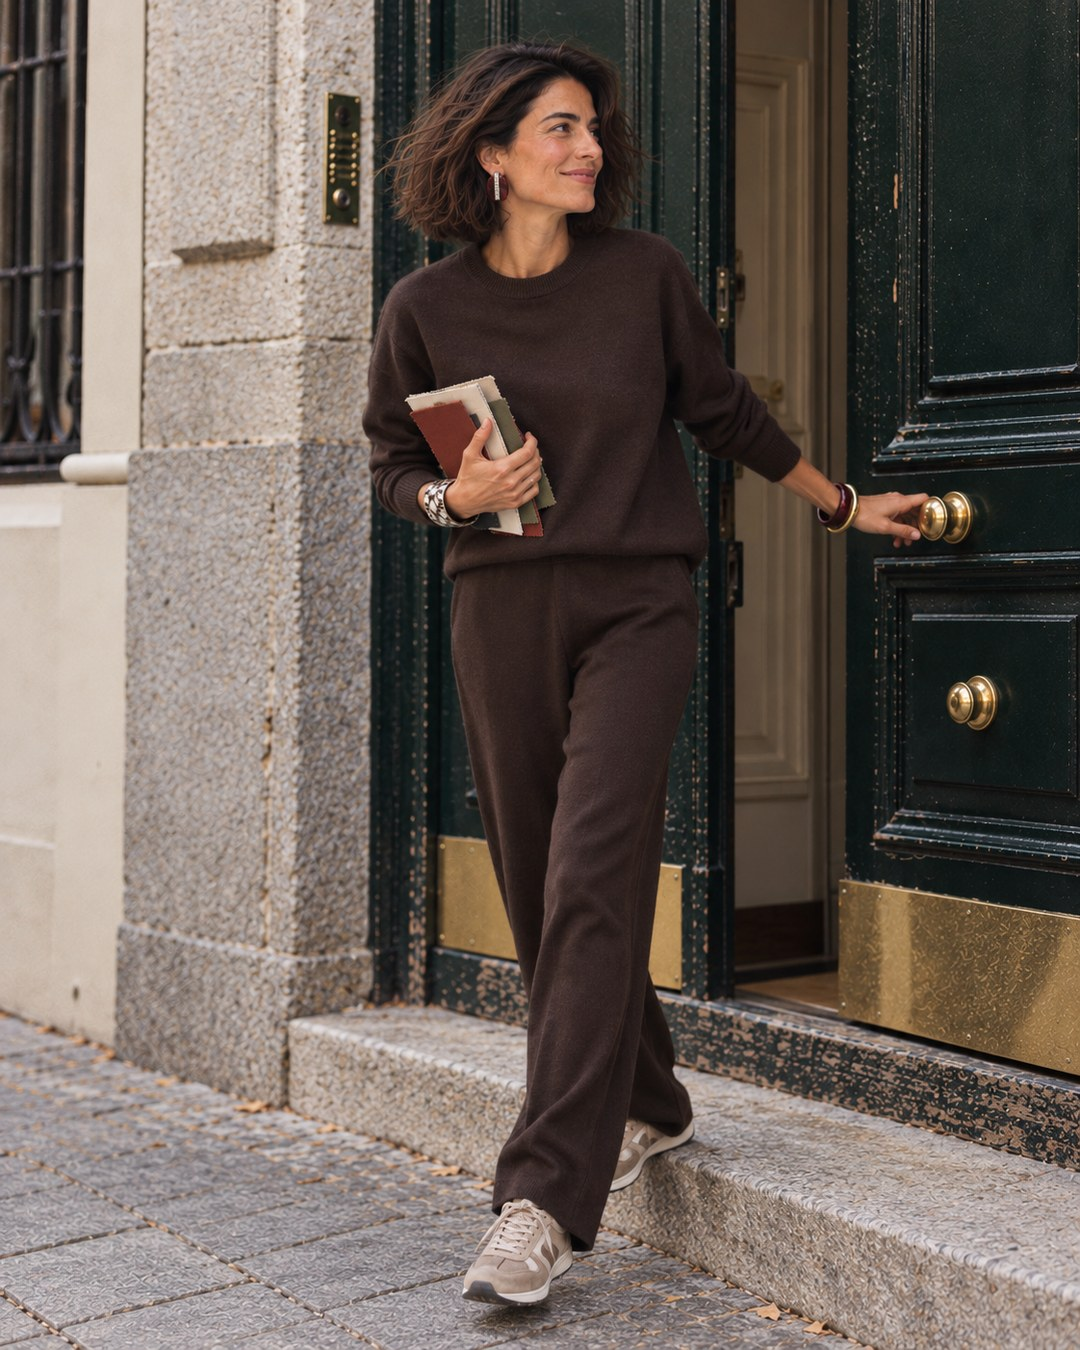
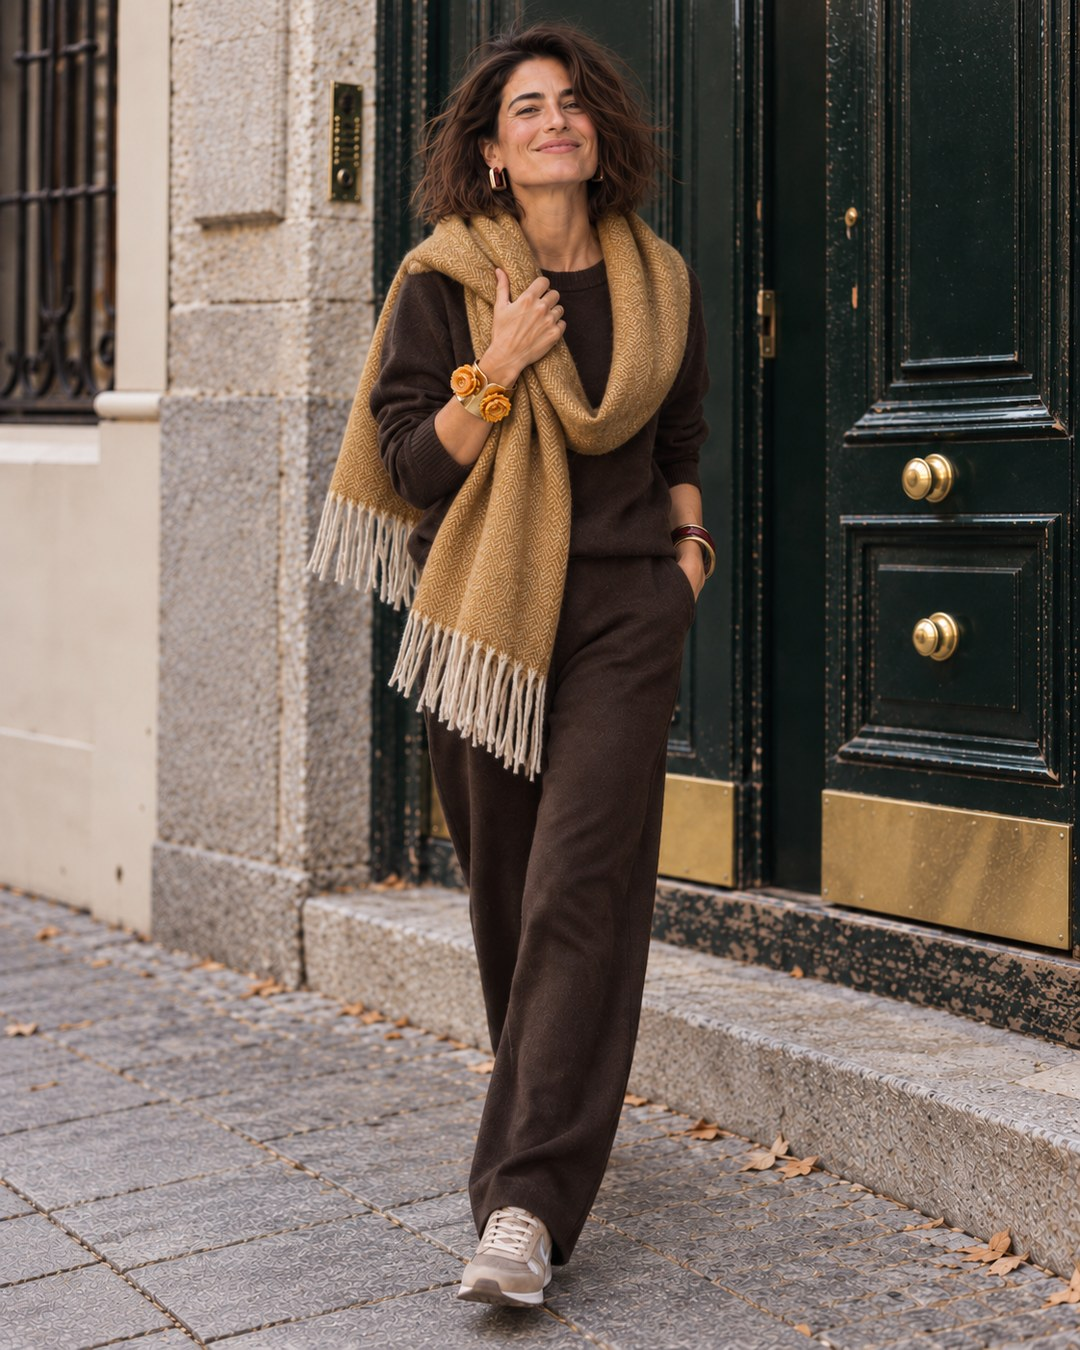
Add files via upload

diff --git a/index.html b/index.html
@@ -60,13 +60,14 @@ const LOOKS = [
    items:[
     {b:"Mango", n:"Fine-knit crew-neck jumper", p:"€19.99", u:"https://shop.mango.com/es/es/p/mujer/jerseis-y-cardigans/jerseis/jersey-punto-cuello-redondo/37017777/30/00"},
     {b:"Mango", n:"Fine-knit straight trousers", p:"€29.99", u:"https://shop.mango.com/es/es/p/mujer/pantalones/straight/pantalon-recto-punto-fino/37074075/30/00"},
-    {b:"Mango", n:"Resin cuff bracelet", p:"€19.99", u:"https://shop.mango.com/es/es/p/mujer/bisuteria/fiesta/pulsera-rigida-resina/37081342/30/00"},
+    {b:"Mantas de Grazalema", n:"Mustard merino wool scarf", p:"€38", u:"https://www.mantasdegrazalema.com/es/bufandas-de-lana/bufanda-amarilla"},
+    {b:"Zara", n:"Flower resin maxi cuff · Marisa Berenson x Zara", p:"€29.95", u:"https://www.zara.com/es/es/maxi-pulsera-metalica-flores-resina-marisa-berenson-x-zara-p04548203.html"},
     {b:"Mango", n:"Resin earrings", p:"€15.99", u:"https://shop.mango.com/es/es/p/mujer/bisuteria/fiesta/pendientes-resina/37027798/76/00"},
     {b:"New Balance", n:"204L sneakers", p:"€140", u:"https://www.newbalance.es/es/pd/204l/U204LV1-51907.html"}
    ]},
   {id:"joyas", kicker:"Close-up", title:"Resin, please", date:"6 Oct 2026", img:"joyas.jpg",
    items:[
-    {b:"Mango", n:"Resin cuff bracelet", p:"€19.99", u:"https://shop.mango.com/es/es/p/mujer/bisuteria/fiesta/pulsera-rigida-resina/37081342/30/00"},
+    {b:"Zara", n:"Flower resin maxi cuff · Marisa Berenson x Zara", p:"€29.95", u:"https://www.zara.com/es/es/maxi-pulsera-metalica-flores-resina-marisa-berenson-x-zara-p04548203.html"},
     {b:"Mango", n:"Resin earrings", p:"€15.99", u:"https://shop.mango.com/es/es/p/mujer/bisuteria/fiesta/pendientes-resina/37027798/76/00"},
     {b:"Mango", n:"Pack of 2 bangles", p:"€19.99", u:"https://shop.mango.com/es/es/p/mujer/bisuteria/pulseras/pack-de-2-pulseras-diseno-irregular/37086005/OR/00"}
    ]},
